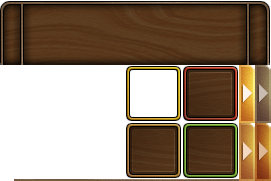
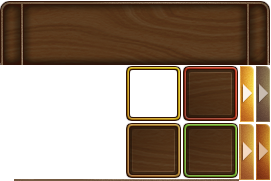
menu arrow buttons pixel perfection

Changed region(s): [[0.0295, 0.0, 1.0, 1.0], [0.0, 0.0276, 0.0295, 0.3591], [0.4723, 0.3591, 0.6494, 0.3867]]

diff --git a/css/web/style-menu.css b/css/web/style-menu.css
@@ -398,9 +398,10 @@ p {
 .hud-btn-left,
 .hud-btn-right{
 	position: absolute;
-	height: 64px;
+	height: 63px;
 	width: 20px;
 	right: 2px;
+	bottom: 0;
 	display: block;
 	z-index: 1;
 }
@@ -416,7 +417,7 @@ p {
 .hud-btn-left::before,
 .hud-btn-right::before {
 	content: '';
-	height: 59px;
+	height: 58px;
 	width: 16px;
 	display: block;
 	position: absolute;
@@ -425,27 +426,27 @@ p {
 }
 
 .hud-btn-left::before {
-	background-position: -255px -64px;
+	background-position: -255px -65px;
 	transform: scaleX(-1);
 }
 
 .hud-btn-right::before {
-	background-position: -256px -63px;
+	background-position: -256px -65px;
 }
 
 .hud-btn-left-active::before {
-	background-position: -255px -122px;
+	background-position: -255px -123px;
 }
 .hud-btn-left-active:hover::before {
-	background-position: -240px -64px;
+	background-position: -239px -65px;
 }
 
 .hud-btn-right-active::before {
-	background-position: -256px -121px;
+	background-position: -256px -123px;
 }
 
 .hud-btn-right-active:hover::before {
-	background-position: -240px -63px;
+	background-position: -240px -65px;
 }
 
 .hud-btn {
